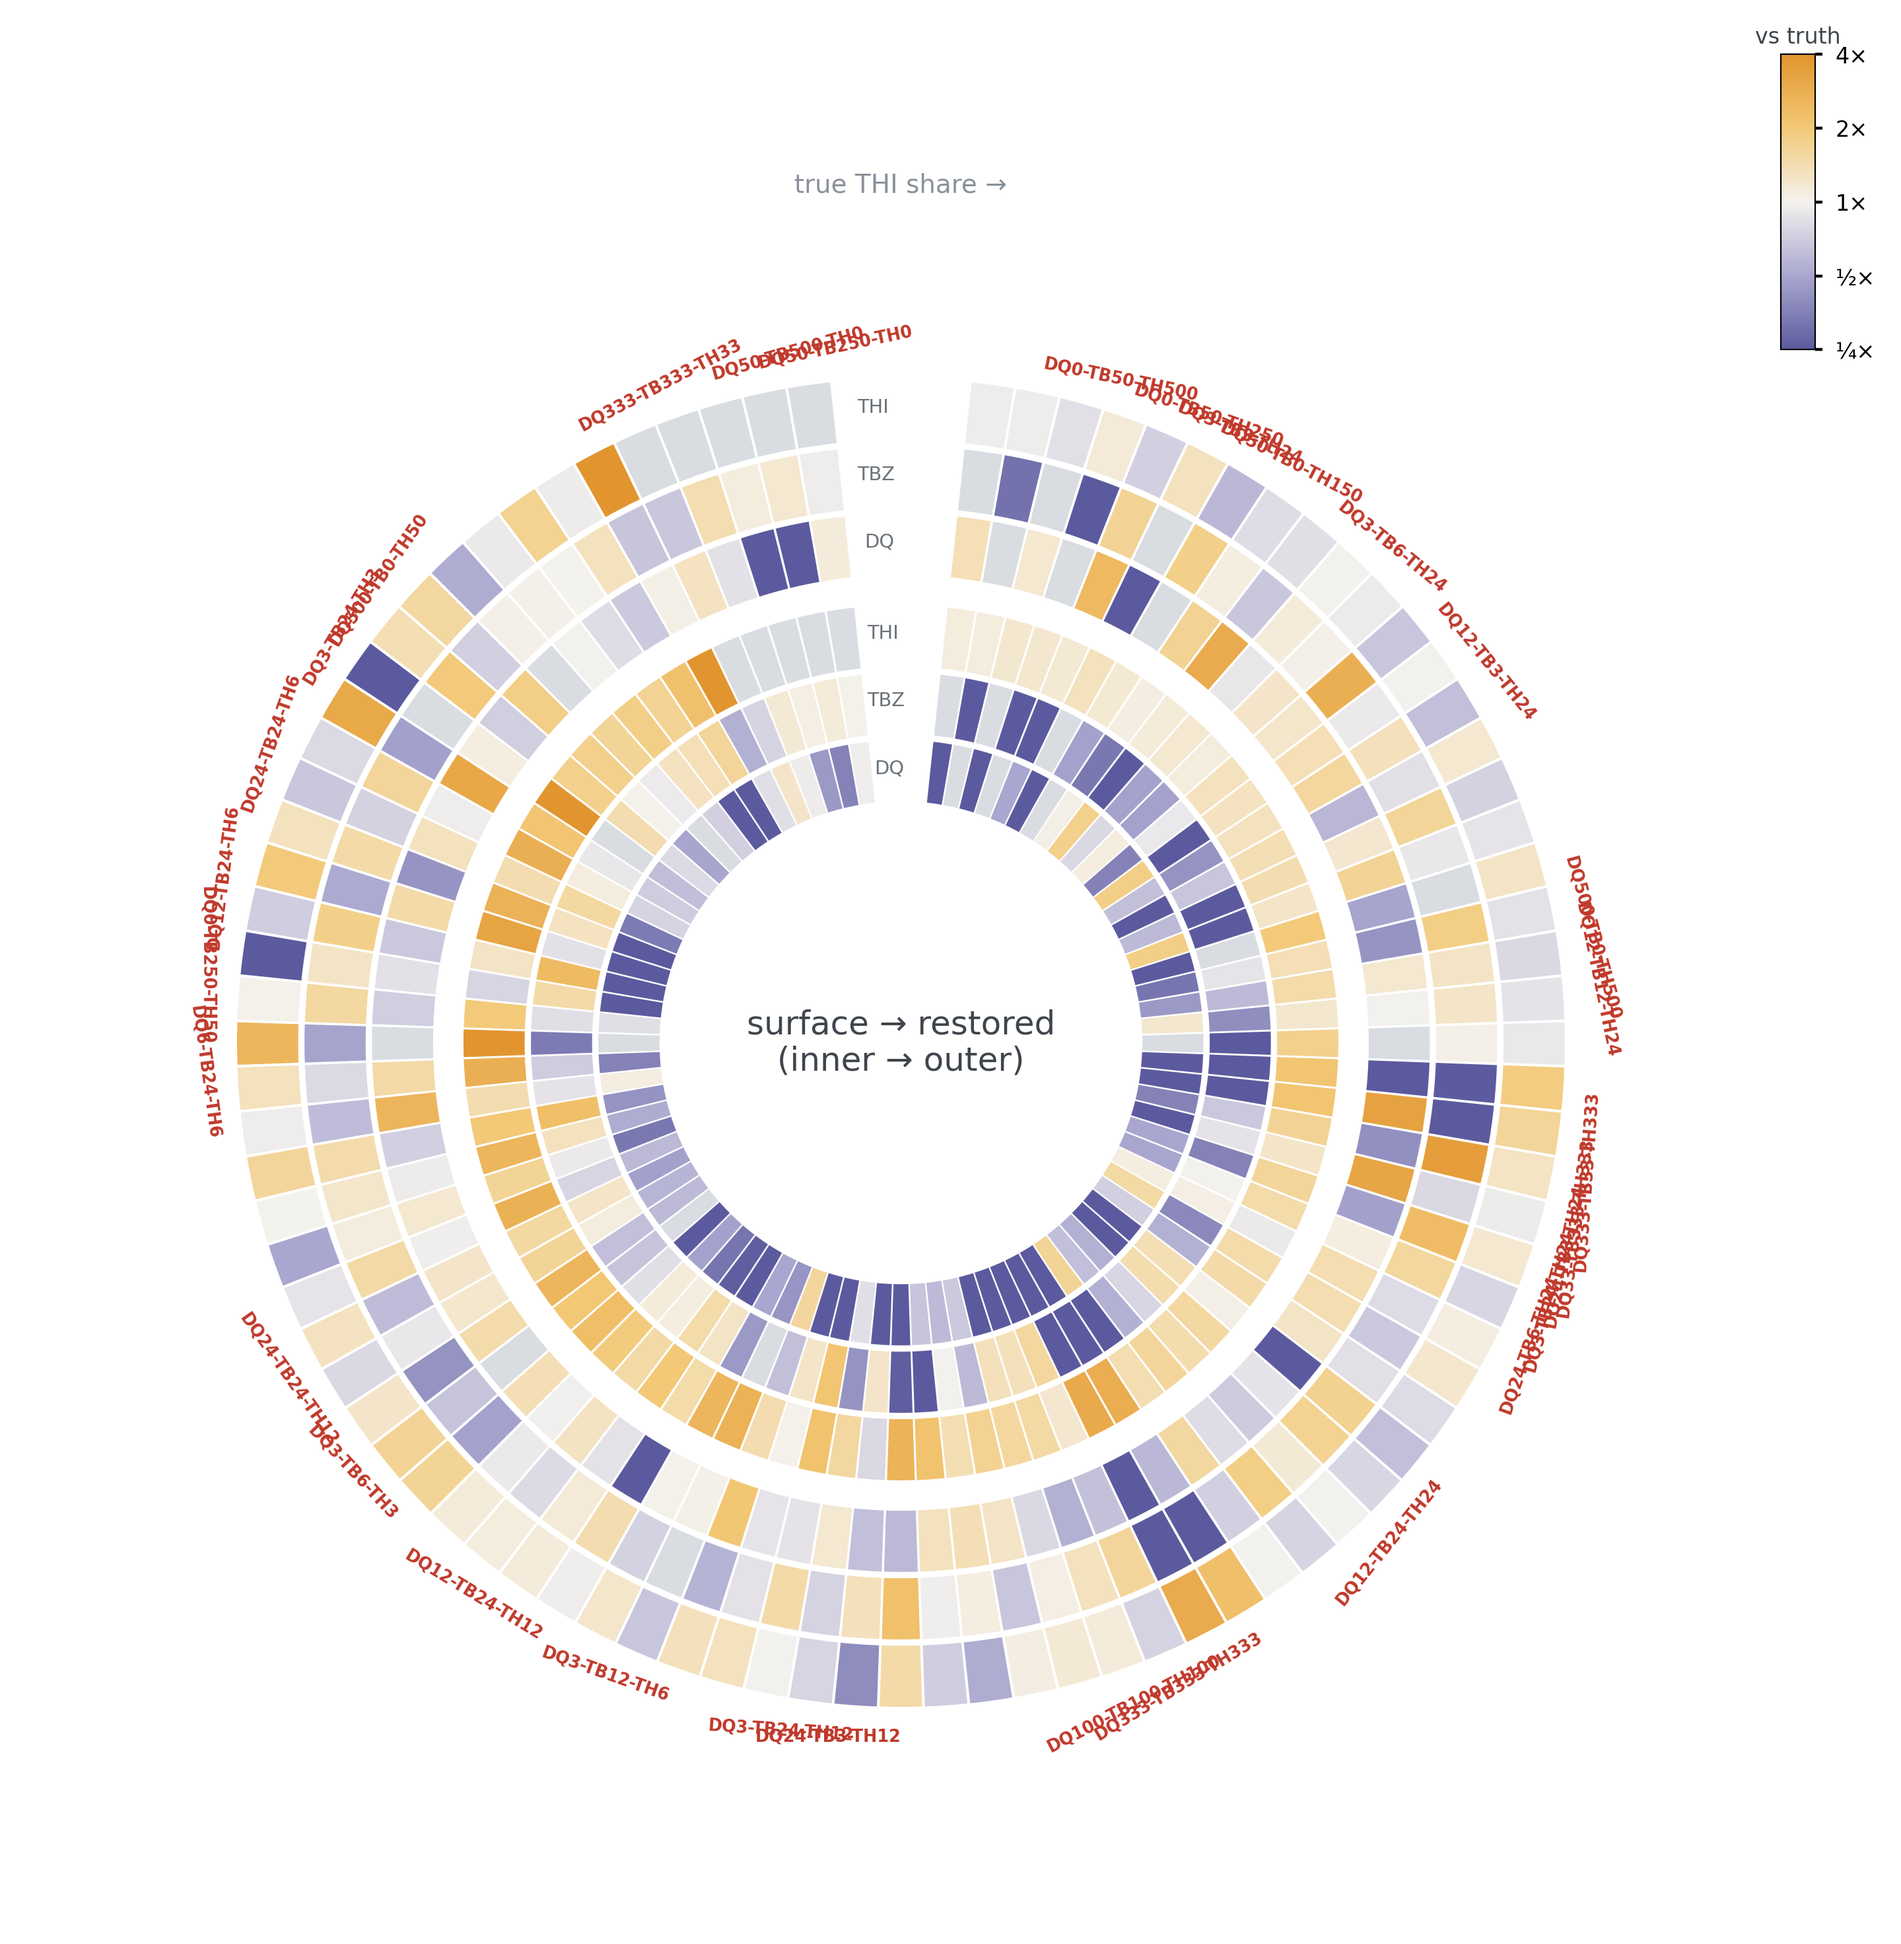
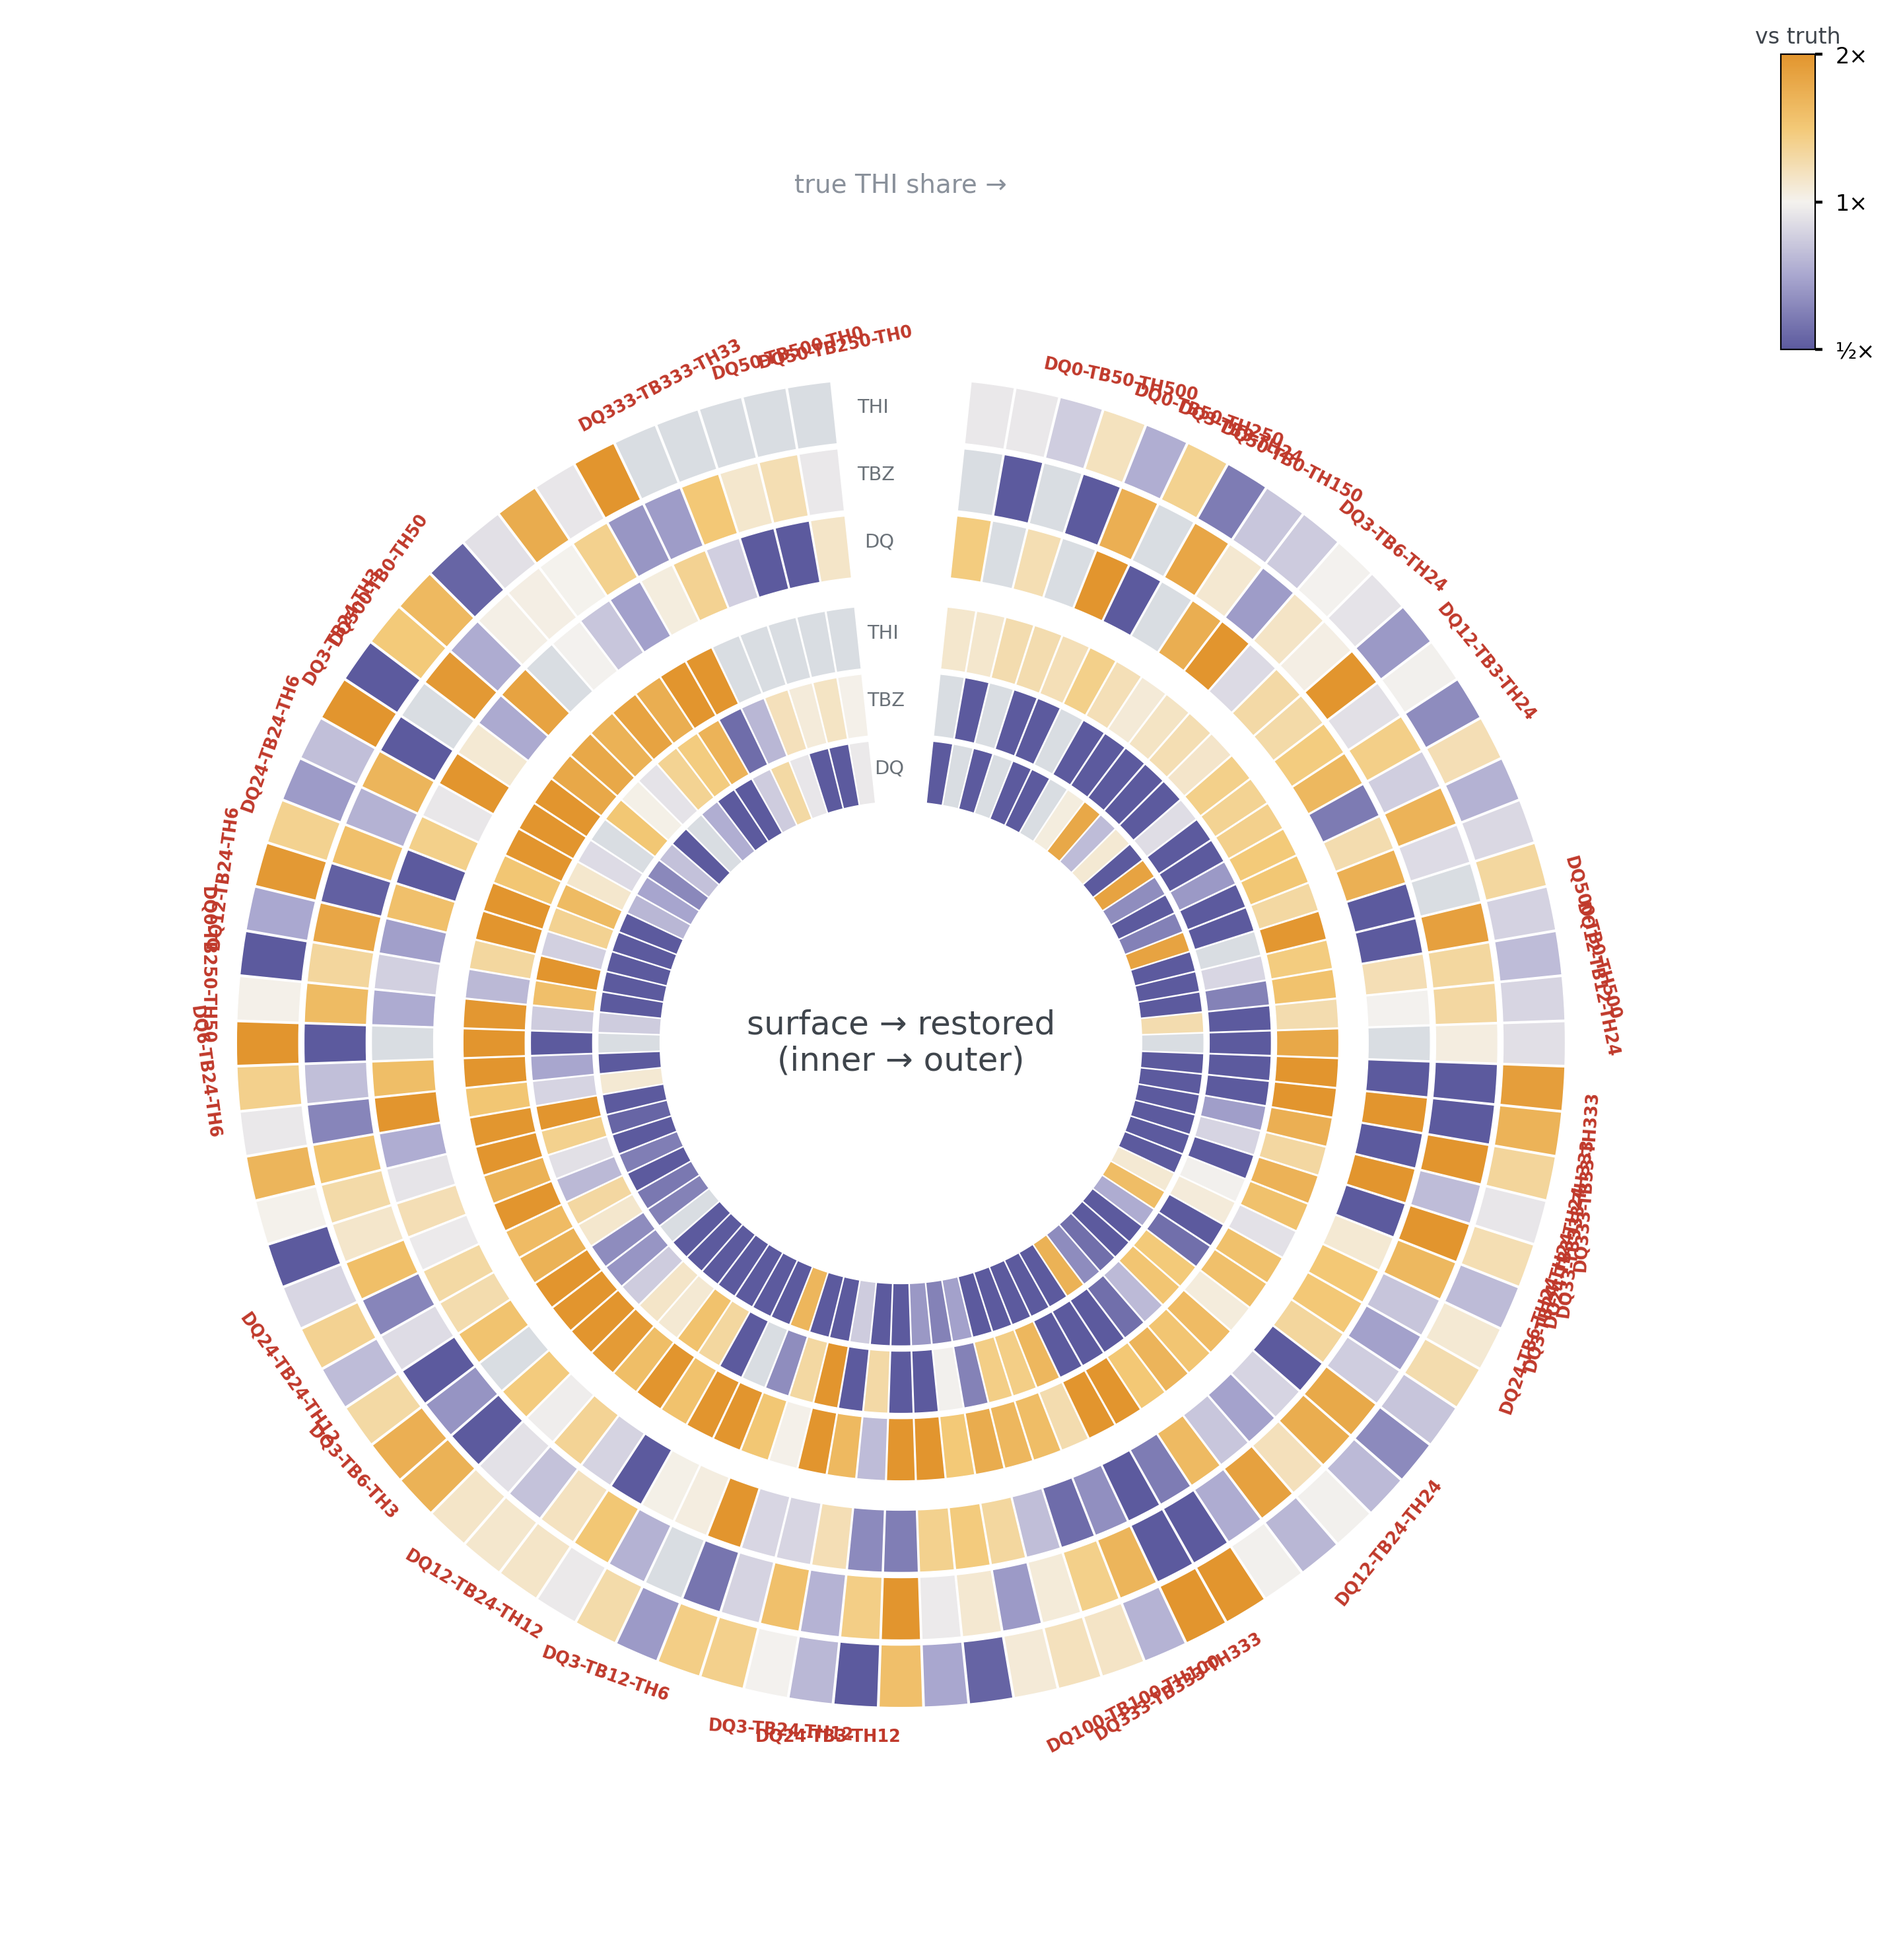
62: color range tightened to half-2x; 62b: circos of the real ink map - 896 gated pixels, surface vs restored composition rings vs 1/3 truth

Changed region(s): [[0.1237, 0.2164, 0.8347, 0.8967]]

diff --git a/documentation/scripts/fig62b_circular_realmap.py b/documentation/scripts/fig62b_circular_realmap.py
@@ -1,0 +1,106 @@
+# -*- coding: utf-8 -*-
+"""62b — 실제 글씨맵의 positive 픽셀을 circos 링으로 재구성.
+
+부채꼴 = 게이트(NNLS 0.15) 통과 픽셀(표면 THI 분율 오름차순),
+링 = 안쪽 3개 표면(NNLS) 조성 / 바깥 3개 복원(MLP) 조성,
+색 = 제조 진실(1/3씩) 대비 배율 log2, ½×–2× 클립(판정 기준 2×).
+"조성 복원이 된다"를 real map 픽셀 단위로: 안쪽은 얼룩(THI 독식),
+바깥은 흰색(1/3씩 복원)이어야 한다.
+
+실행:  python -u fig62b_circular_realmap.py
+"""
+from __future__ import annotations
+
+import io
+import os
+import sys
+
+import numpy as np
+
+sys.stdout = io.TextIOWrapper(sys.stdout.buffer, encoding="utf-8",
+                              errors="replace")
+HERE = os.path.dirname(os.path.abspath(__file__))
+ROOT = os.path.dirname(os.path.dirname(HERE))
+sys.path.insert(0, HERE)
+sys.path.insert(0, ROOT)
+import labfig  # noqa: E402
+
+import matplotlib
+
+matplotlib.use("Agg")
+import matplotlib.pyplot as plt
+from matplotlib.colors import LinearSegmentedColormap, Normalize
+
+from dataset import load_preprocess  # noqa: E402
+from dl_model import load_model, apply_model_pixels  # noqa: E402
+from unmix import unmix_map  # noqa: E402
+
+DLM = r"S:\Google Drive\내 드라이브\ACF_PEST_DB\260831_Model_FINAL\mlp_composition_260831_final.dlm"
+PURE = r"S:\Google Drive\내 드라이브\ACF_PEST_DB\Pure"
+MAP = r"S:\Google Drive\내 드라이브\ACF_PEST_DB\Pest\260812_12 trio_THI_TBZ_DQ.csv"
+RES = os.path.join(ROOT, "documentation", "results")
+SUBS = ["DQ", "TBZ", "THI"]
+TRUE = 1.0 / 3.0                     # 제조 12:12:12
+
+m = load_model(DLM)
+cfg = load_preprocess(PURE)
+r = unmix_map(data_dir=PURE, test_path=MAP, method="dlpx",
+              baseline=bool(m.get("baseline", cfg["baseline"])),
+              trim=cfg["trim"], min_frac=0.15, hit_mode="threshold",
+              dl_model=m)
+pk = np.clip(np.asarray(apply_model_pixels(m, r.wn, r.spectra), float), 0,
+             None)
+cols = [list(m["subs"]).index(s) for s in SUBS]
+Rres = pk[:, cols] / (pk[:, cols].sum(1, keepdims=True) + 1e-12)
+Rsurf = np.asarray(r.ratio_nb, float)
+sel = np.where(np.asarray(r.hit, bool))[0]
+o = np.argsort(Rsurf[sel, 2])        # 표면 THI 분율 오름차순
+sel = sel[o]
+n = len(sel)
+print("positive pixels:", n)
+
+M = np.full((6, n), np.nan)
+M[0:3] = np.log2(np.clip(Rsurf[sel].T / TRUE, 1e-3, None))
+M[3:6] = np.log2(np.clip(Rres[sel].T / TRUE, 1e-3, None))
+
+cmap = LinearSegmentedColormap.from_list(
+    "pw", ["#5c5a9e", "#a9a7cf", "#f4f2ee", "#f3c977", "#e2952e"])
+norm = Normalize(-1, 1)              # ½×–2×
+
+A0 = np.deg2rad(96)
+SPAN = np.deg2rad(348)
+edges = A0 + SPAN * np.arange(n + 1) / n
+R0, DR, GAP = 1.0, 0.28, 0.10
+
+fig, ax = plt.subplots(figsize=(8.6, 8.6), subplot_kw=dict(polar=True))
+th_c = (edges[:-1] + edges[1:]) / 2
+w_c = (edges[1] - edges[0])
+for ring in range(6):
+    r_in = R0 + ring * DR + (GAP if ring >= 3 else 0)
+    ax.bar(th_c, np.full(n, DR * 0.94), bottom=r_in, width=w_c,
+           color=cmap(norm(M[ring])), edgecolor="none", zorder=2)
+ax.text(np.deg2rad(90), 0.0,
+        "SERS-ink map · 12:12:12\nsurface → restored\n(inner → outer)",
+        fontsize=9, color="#3f454c", ha="center", va="center", zorder=4)
+for k, s in enumerate(SUBS):
+    for base in (R0, R0 + GAP + 3 * DR):
+        ax.text(np.deg2rad(92.5), base + (k + 0.5) * DR, s,
+                fontsize=5.2, color="#6a7178", ha="center", va="center",
+                zorder=4)
+r_out = R0 + GAP + 6 * DR
+ax.text(np.deg2rad(90), r_out + 0.45,
+        f"{n} gated pixels · sorted by surface THI fraction →", fontsize=7,
+        color="#8a919b", ha="center")
+ax.set_xticks([]); ax.set_yticks([])
+ax.set_ylim(0, r_out + 0.6)
+ax.spines["polar"].set_visible(False)
+cax = fig.add_axes([0.90, 0.80, 0.015, 0.13])
+cb = fig.colorbar(plt.cm.ScalarMappable(norm=norm, cmap=cmap), cax=cax)
+cb.set_ticks([-1, 0, 1])
+cb.set_ticklabels(["½×", "1×", "2×"])
+cax.tick_params(labelsize=6, length=2)
+cb.outline.set_linewidth(0.4)
+cax.set_title("vs 1/3", fontsize=6, color="#3f454c", pad=3)
+fig.savefig(os.path.join(RES, "62b_circular_realmap.png"), dpi=400,
+            bbox_inches="tight", facecolor="white")
+print("saved 62b_circular_realmap.png")

diff --git a/documentation/scripts/fig62_circular_rings.py b/documentation/scripts/fig62_circular_rings.py
@@ -64,7 +64,7 @@ bad = [bool(np.nanmax(np.abs(t[3])) > 1) for t in recs]   # 복원 2× 밖
 cmap = LinearSegmentedColormap.from_list(
     "pw", ["#5c5a9e", "#a9a7cf", "#f4f2ee", "#f3c977", "#e2952e"])
 cmap.set_bad("#d9dde2")
-norm = Normalize(-2, 2)
+norm = Normalize(-1, 1)   # ½×–2× — 판정 기준이 2×라 ±4×는 과함
 
 A0 = np.deg2rad(96)             # 12시 근처 틈(12°)
 SPAN = np.deg2rad(348)
@@ -108,8 +108,8 @@ ax.spines["polar"].set_visible(False)
 # 컬러바 (log2 fold)
 cax = fig.add_axes([0.90, 0.80, 0.015, 0.13])
 cb = fig.colorbar(plt.cm.ScalarMappable(norm=norm, cmap=cmap), cax=cax)
-cb.set_ticks([-2, -1, 0, 1, 2])
-cb.set_ticklabels(["¼×", "½×", "1×", "2×", "4×"])
+cb.set_ticks([-1, 0, 1])
+cb.set_ticklabels(["½×", "1×", "2×"])
 cax.tick_params(labelsize=6, length=2)
 cb.outline.set_linewidth(0.4)
 cax.set_title("vs truth", fontsize=6, color="#3f454c", pad=3)
